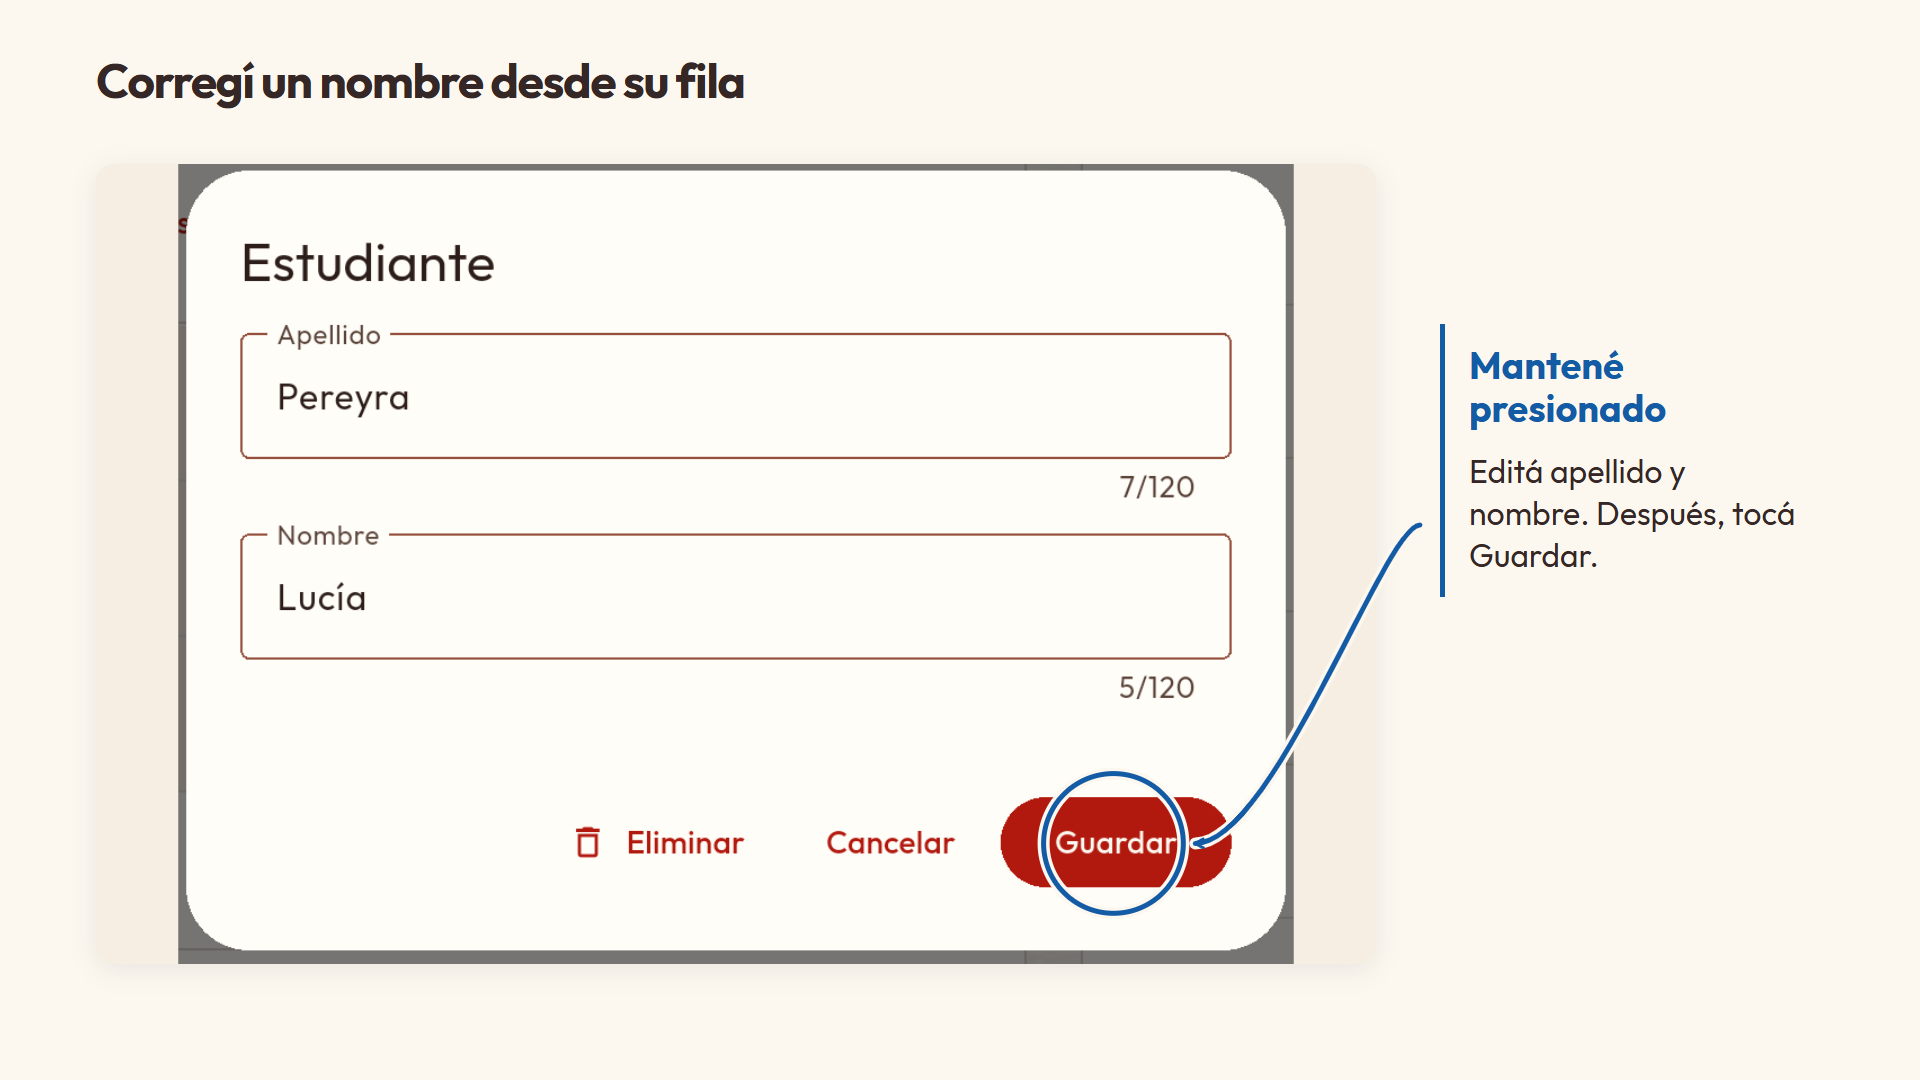
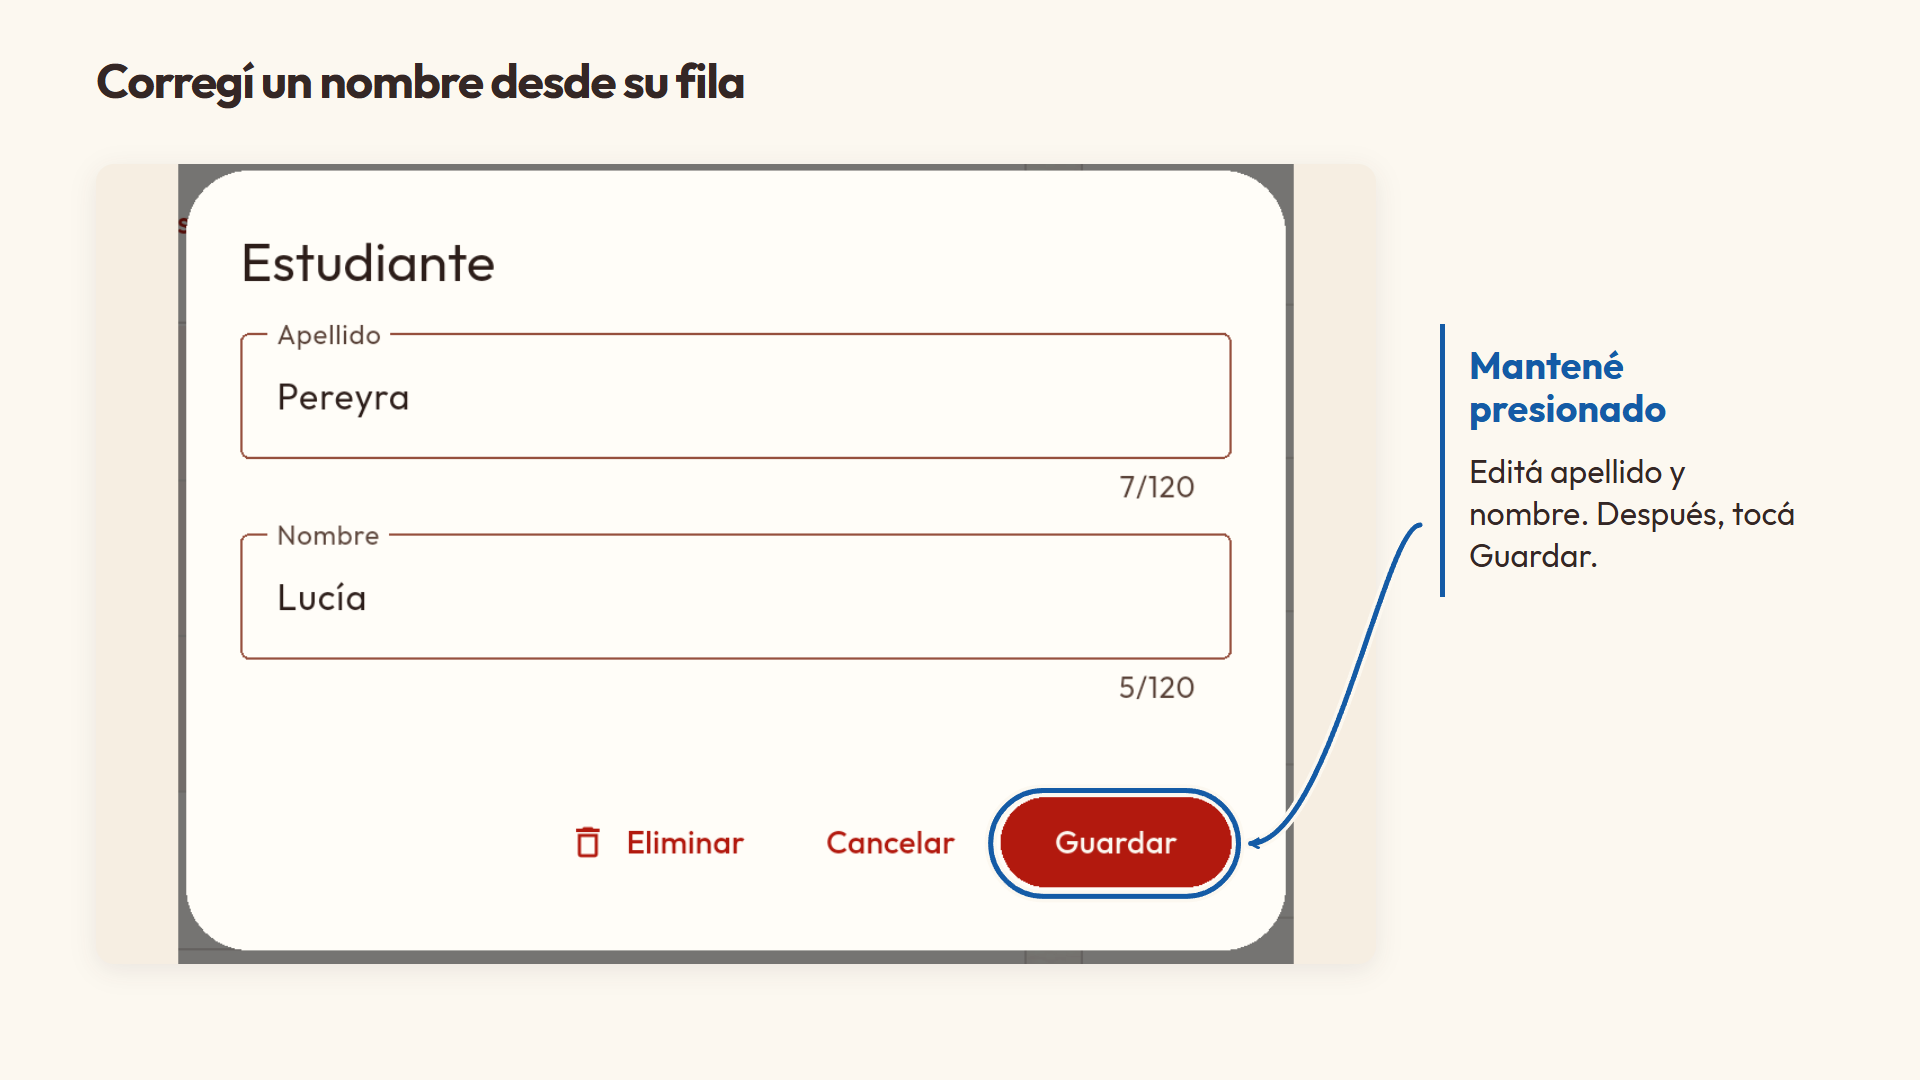
Trivia

Changed region(s): [[0.5, 0.6417, 0.6875, 0.8556], [0.6875, 0.55, 0.7188, 0.6417], [0.7188, 0.4889, 0.75, 0.55]]

diff --git a/README.md b/README.md
@@ -62,7 +62,22 @@ En **Resultados** podés seguir los puntajes, las notas y la participación de c
 | Robo correcto | 2 puntos, hasta alcanzar el máximo de 10 |
 | Respuesta incorrecta o sin respuesta | 0 puntos; no se descuentan puntos |
 
-La aprobación es desde **7 puntos**. Al alcanzar ese puntaje, la app permite elegir entre finalizar la evaluación de esa persona o continuar para mejorar la nota. Al llegar a **10**, su participación termina automáticamente.
+La aprobación es desde **7 puntos** y la nota máxima es **10**. Los puntos de las preguntas propias y de los robos se acumulan, sin superar ese máximo: si tiene 9 y acierta un robo, llega a 10.
+
+### Al alcanzar la aprobación
+
+Cuando un estudiante alcanza o supera los **7 puntos** por primera vez, aparece un aviso con dos opciones:
+
+- **Finalizar:** termina la evaluación de esa persona con el puntaje alcanzado; deja de participar en los turnos y robos.
+- **Continuar:** sigue participando para intentar mejorar su nota, hasta llegar a 10 o completar su participación.
+
+![Aviso al llegar a 7 puntos con las opciones Finalizar y Continuar](docs/guia-visual/aprobacion-7.png)
+
+### Al llegar a la nota máxima
+
+Al alcanzar **10 puntos**, la participación de ese estudiante termina automáticamente: deja de entrar en el sorteo y de estar habilitado para los robos. La app muestra un aviso de nota máxima. En este caso, **Continuar** cierra el aviso para seguir con el resto del grupo; no vuelve a habilitar a esa persona.
+
+![Aviso al alcanzar 10 puntos y finalizar la participación del estudiante](docs/guia-visual/nota-maxima-10.png)
 
 ## Tus preguntas y tus estudiantes
 
